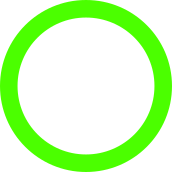
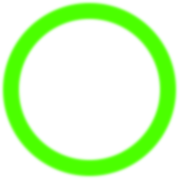
Add blur for fan light

Changed region(s): [[0.0, 0.0, 1.0, 1.0], [0.0872, 0.0872, 0.9012, 0.9012]]

diff --git a/style.css b/style.css
@@ -159,8 +159,8 @@ header {
 .fan_light {
   position: relative;
   animation: rotate_hue 15s infinite;
-  bottom: 226px;
-  left: 168px;
+  bottom: 229px;
+  left: 167px;
 }
 
 /*Page 3*/
